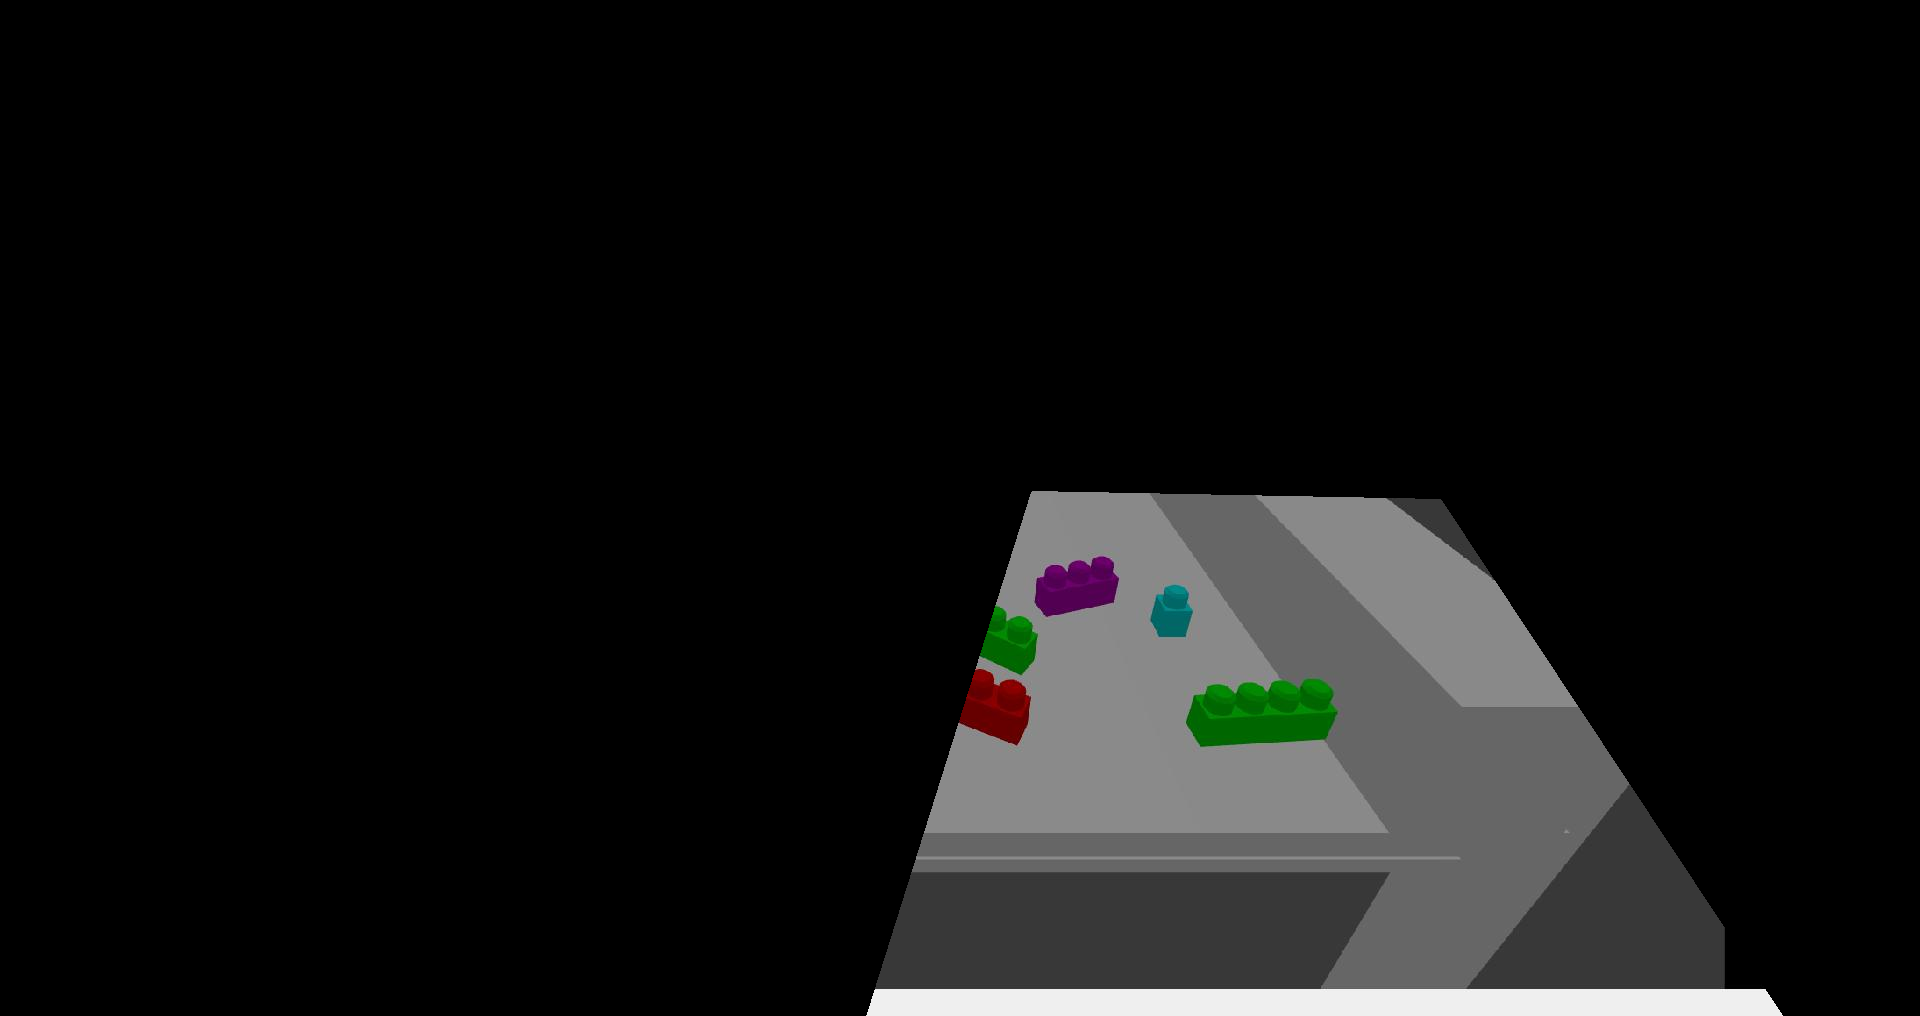
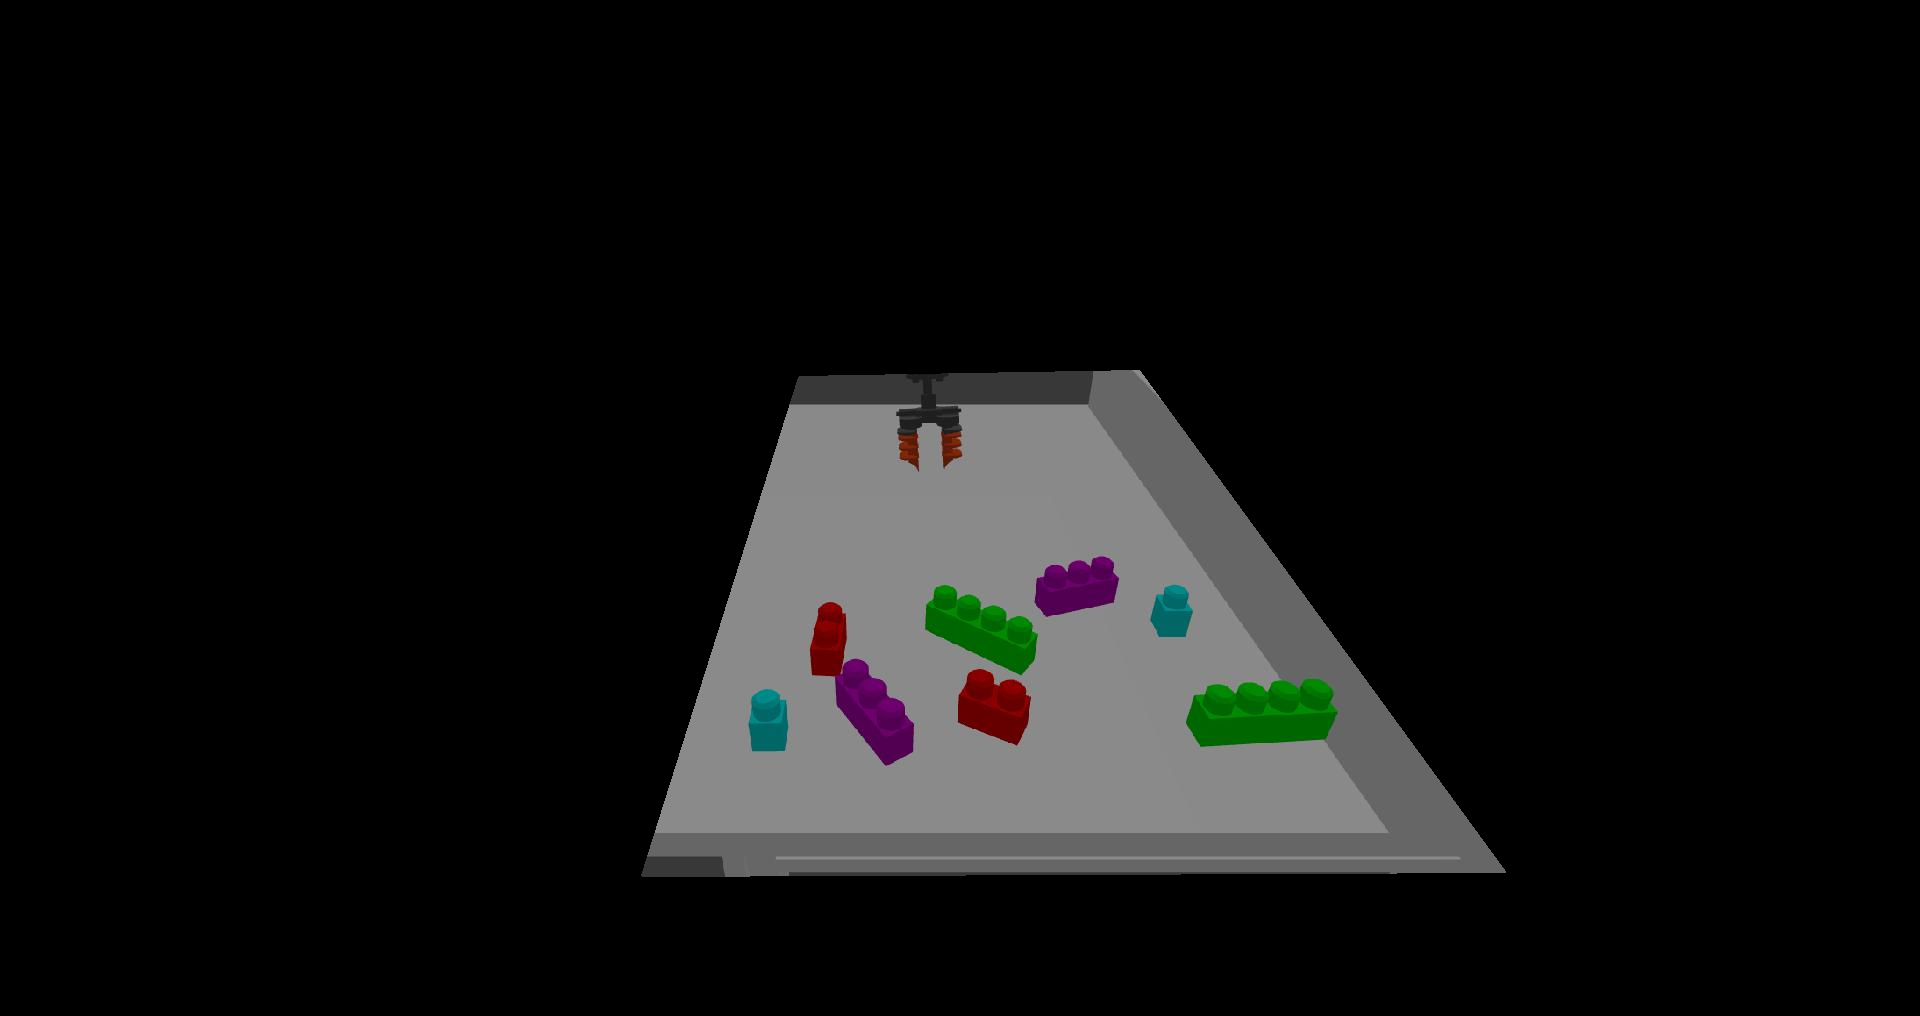
roi.py corrected but changes each image

Changed region(s): [[0.3125, 0.3661, 0.9375, 1.0]]

diff --git a/vision/scripts/RegionOfInterest.py b/vision/scripts/RegionOfInterest.py
@@ -46,7 +46,11 @@ class RegionOfInterest:
         if USING_REAL_CAM:
             points = np.array([[[457,557], [555,272], [779,267], [960,532]]])
         else:
-            points = np.array([[[845,409], [1201,412], [1545,913], [658, 921]]])
+            points = np.array([[[799,377], [1139,371], [1504,871], [642,875]]])#np.array([[[845,409], [1201,412], [1545,913], [658, 921]]])
+        
+
+
+
 
         # define the region of interest without aliasing
         cv2.drawContours(mask, [points], -1, (255, 255, 255), -1, cv2.LINE_AA)
